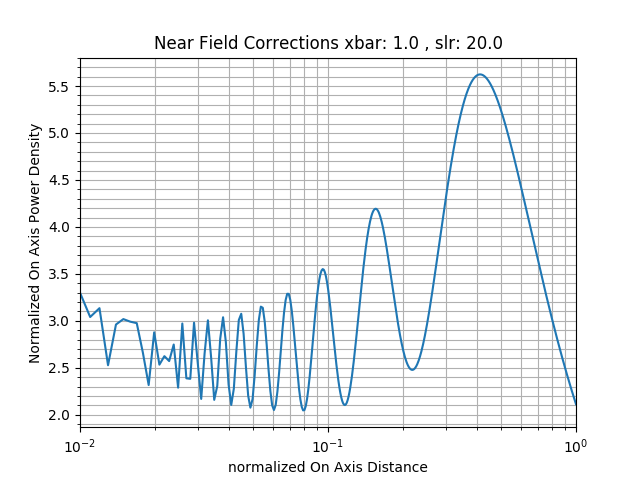
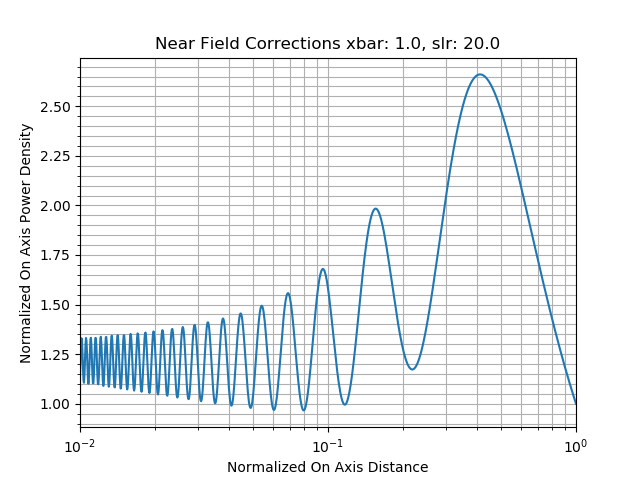
Made functional changes to near field corrects fun

Changed region(s): [[0.0312, 0.1562, 0.9062, 0.875], [0.2188, 0.0625, 0.7812, 0.125], [0.3438, 0.9688, 0.6875, 1.0]]

diff --git a/src/antenna_intensity_modeler/parabolic.py b/src/antenna_intensity_modeler/parabolic.py
@@ -10,6 +10,7 @@ import matplotlib.pyplot as plt
 import pandas as pd
 from functools import partial
 from multiprocessing import Pool
+from typing import Union, Callable
 
 # Units
 m = 1.0
@@ -98,62 +99,59 @@ def parameters(
     # return radius_meters, freq_mhz, power_watts, efficiency, side_lobe_ratio, H, ffmin, ffpwrden, k
 
 
-def __run_near_field_corrections(d: float, parameters: dict, xbar: float):
-    radius = parameters["radius_meters"]
-    freq_mhz = parameters["freq_mhz"]
-    power_watts = parameters["power_watts"]
-    efficiency = parameters["efficiency"]
-    side_lobe_ratio = parameters["side_lobe_ratio"]
-    H = parameters["H"]
-    ffmin = parameters["ffmin"]
-    ffpwrden = parameters["ffpwrden"]
-    k = parameters["k"]
+def bessel_func(
+    x: float, f: Union[np.cos, np.sin], H: float, u: float, d: float
+) -> Callable:
+    return (
+        1
+        * scipy.special.iv(0, pi * H * (1 - x ** 2))  # **(1 / 2))
+        # * (1 - x**2)
+        * scipy.special.jv(0, u * x)
+        * f(pi * x ** 2 / 8 / d)
+        * x
+    )
+
+
+def run_near_field_corrections(d: float, parameters: dict, xbar: float) -> float:
+    # Get parameters
+    radius = parameters.get("radius_meters")
+    freq_mhz = parameters.get("freq_mhz")
+    power_watts = parameters.get("power_watts")
+    efficiency = parameters.get("efficiency")
+    side_lobe_ratio = parameters.get("side_lobe_ratio")
+    H = parameters.get("H")
+    ffmin = parameters.get("ffmin")
+    ffpwrden = parameters.get("ffpwrden")
+    k = parameters.get("k")
 
     xbarR = xbar * radius
     theta = np.arctan(xbarR / (d * ffmin))
     u = k * radius * np.sin(theta)
 
-    def fun1(x):
-        return (
-            1
-            * scipy.special.iv(0, pi * H * (1 - x ** 2))  # **(1 / 2))
-            # * (1 - x**2)
-            * scipy.special.jv(0, u * x)
-            * np.cos(pi * x ** 2 / 8 / d)
-            * x
-        )
+    # Get Bessel Functions
+    bessel_func_cos = partial(bessel_func, f=np.cos, H=H, u=u, d=d)
+    bessel_func_sin = partial(bessel_func, f=np.sin, H=H, u=u, d=d)
 
-    Ep1 = scipy.integrate.romberg(fun1, 0, 1)
-
-    def fun2(x):
-        return (
-            1
-            * scipy.special.iv(0, pi * H * (1 - x ** 2))  # **(1 / 2))
-            # * (1 - x**2)
-            * scipy.special.jv(0, u * x)
-            * np.sin(pi * x ** 2 / 8 / d)
-            * x
-        )
-
-    Ep2 = scipy.integrate.romberg(fun2, 0, 1)
+    # Calculate Powers
+    Ep1 = scipy.integrate.romberg(bessel_func_cos, 0, 1)
+    Ep2 = scipy.integrate.romberg(bessel_func_sin, 0, 1)
 
     return (1 + np.cos(theta)) / d * abs(Ep1 - 1j * Ep2)
 
 
-def near_field_corrections(parameters, xbar):
+def near_field_corrections(
+    parameters: dict, xbar: float, resolution: int = 1000
+) -> np.array:
     """Near field corrections for parabolic dish.
 
     Receives user input parameters and normalized off axis distance
     for parabolic dish.  Computes and returns plot of near field correction
     factors.
 
-    :param parameters: parameters tuple created with parameters function
-    :param xbar: normalized off-axis distance
-    :type parameters: tuple(float)
-    :type xbar: float
-    :returns: dataframe
-    :rtype: pandas dataframe
-    :Example:
+    Args:
+        parameters (tuple): parameters tuple created with parameters function.
+        xbar (float)  : normalized off-axis distance.
+        resolution (float): number of points used in array.
 
     Returns:
         pandas.DataFrame: A dataframe with "delta" and "Pcorr" columns
@@ -161,93 +159,35 @@ def near_field_corrections(parameters, xbar):
     Example:
         >>> from antenna_intensity_modeler import parabolic
         >>> import matplotlib.pyplot as plt
+        >>> import numpy as np
         >>> params = parabolic.parameters(2.4, 8.4e9, 400.0, 0.62, 20.0)
         >>> xbar = 1.0
-        >>> table = parabolic.near_field_corrections(params, xbar)
+        >>> resolution = 1000
+        >>> power_norm = parabolic.near_field_corrections(params, xbar, resolution)
         >>> fig, ax = plt.subplots()
-        >>> ax.semilogx(table.delta, table.Pcorr)
+        >>> delta = np.logspace(-2, 0, resolution)
+        >>> ax.semilogx(delta, power_norm)
         >>> ax.set_xlim([0.01, 1.0])
         >>> ax.grid(True, which="both")
         >>> ax.minorticks_on()
         >>> slr = params.get('side_lobe_ratio')
-        >>> ax.set_title("Near Field Corrections xbar: %s , slr: %s" % (xbar, slr))
+        >>> ax.set_title("Near Field Corrections xbar: {}, slr: {}".format(xbar, slr))
         >>> ax.set_xlabel("Normalized On Axis Distance")
         >>> ax.set_ylabel("Normalized On Axis Power Density")
-        >>> fig.show()
+        >>> plt.show()
 
     .. image:: _static/nfcImage.png
     """
 
     run_with_params = partial(
-        __run_near_field_corrections, parameters=parameters, xbar=xbar
+        run_near_field_corrections, parameters=parameters, xbar=xbar
     )
-    delta = np.logspace(-2, 0, 1000)
-    # Ep = np.array(map(lambda x: run_with_params(x) ** 2, delta))
-    p = Pool(5)
-    Ep = np.array(list(p.map(run_with_params, delta)))
-    Pcorr = Ep ** 2 / Ep[-1] ** 2 * parameters["ffpwrden"]
+    delta = np.logspace(-2, 0, resolution)
+    Ep = np.array(list(Pool().map(run_with_params, delta)))
+    power_norm = Ep ** 2 / Ep[-1] ** 2  # * parameters["ffpwrden"]
 
-    # # radius, freq_mhz, power_watts, efficiency, side_lobe_ratio, H, ffmin, ffpwrden, k = tuple(parameters)
-    # radius = parameters["radius_meters"]
-    # freq_mhz = parameters["freq_mhz"]
-    # power_watts = parameters["power_watts"]
-    # efficiency = parameters["efficiency"]
-    # side_lobe_ratio = parameters["side_lobe_ratio"]
-    # H = parameters["H"]
-    # ffmin = parameters["ffmin"]
-    # ffpwrden = parameters["ffpwrden"]
-    # k = parameters["k"]
-
-    # # delta = np.linspace(0.01, 1.0, 1000)  # Normalized farfield distances
-    # delta = np.logspace(-2, 0, 1000)
-    # Ep = np.zeros(1000)
-    # count = 0
-    # xbarR = xbar * radius
-
-    # for d in delta:
-    #     theta = np.arctan(xbarR / (d * ffmin))
-    #     u = k * radius * np.sin(theta)
-
-    #     def fun1(x):
-    #         return (
-    #             1
-    #             * scipy.special.iv(0, pi * H * (1 - x ** 2))  # **(1 / 2))
-    #             # * (1 - x**2)
-    #             * scipy.special.jv(0, u * x)
-    #             * np.cos(pi * x ** 2 / 8 / d)
-    #             * x
-    #         )
-
-    #     Ep1 = scipy.integrate.romberg(fun1, 0, 1)
-    #     # Ep1 = sum(fun1(np.linspace(0, 1, 1000)))
-
-    #     def fun2(x):
-    #         return (
-    #             1
-    #             * scipy.special.iv(0, pi * H * (1 - x ** 2))  # **(1 / 2))
-    #             # * (1 - x**2)
-    #             * scipy.special.jv(0, u * x)
-    #             * np.sin(pi * x ** 2 / 8 / d)
-    #             * x
-    #         )
-
-    #     Ep2 = scipy.integrate.romberg(fun2, 0, 1)
-    #     # Ep2 = sum(fun2(np.linspace(0, 1, 1000)))
-    #     Ep[count] = (1 + np.cos(theta)) / d * abs(Ep1 - 1j * Ep2)
-    #     count += 1
-
-    # Pcorr = (Ep ** 2 / Ep[-1] ** 2) * ffpwrden
-
-    # # fig, ax = plt.subplots()
-    # # ax.semilogx(delta, Pcorr)
-    # # ax.set_xlim([0.01, 1.0])
-    # # ax.grid(True, which="both")
-    # # ax.minorticks_on()
-    # # ax.set_title("Near Field Corrections xbar: %s , slr: %s" % (xbar, side_lobe_ratio))
-    # # ax.set_xlabel("Normalized On Axis Distance")
-    # # ax.set_ylabel("Normalized On Axis Power Density")
-    # # return fig, ax
-    return pd.DataFrame(dict(delta=delta, Pcorr=Pcorr))
+    # return pd.DataFrame(dict(delta=delta, Pcorr=Pcorr))
+    return power_norm
 
 
 def test_method(parameters, xbar):
